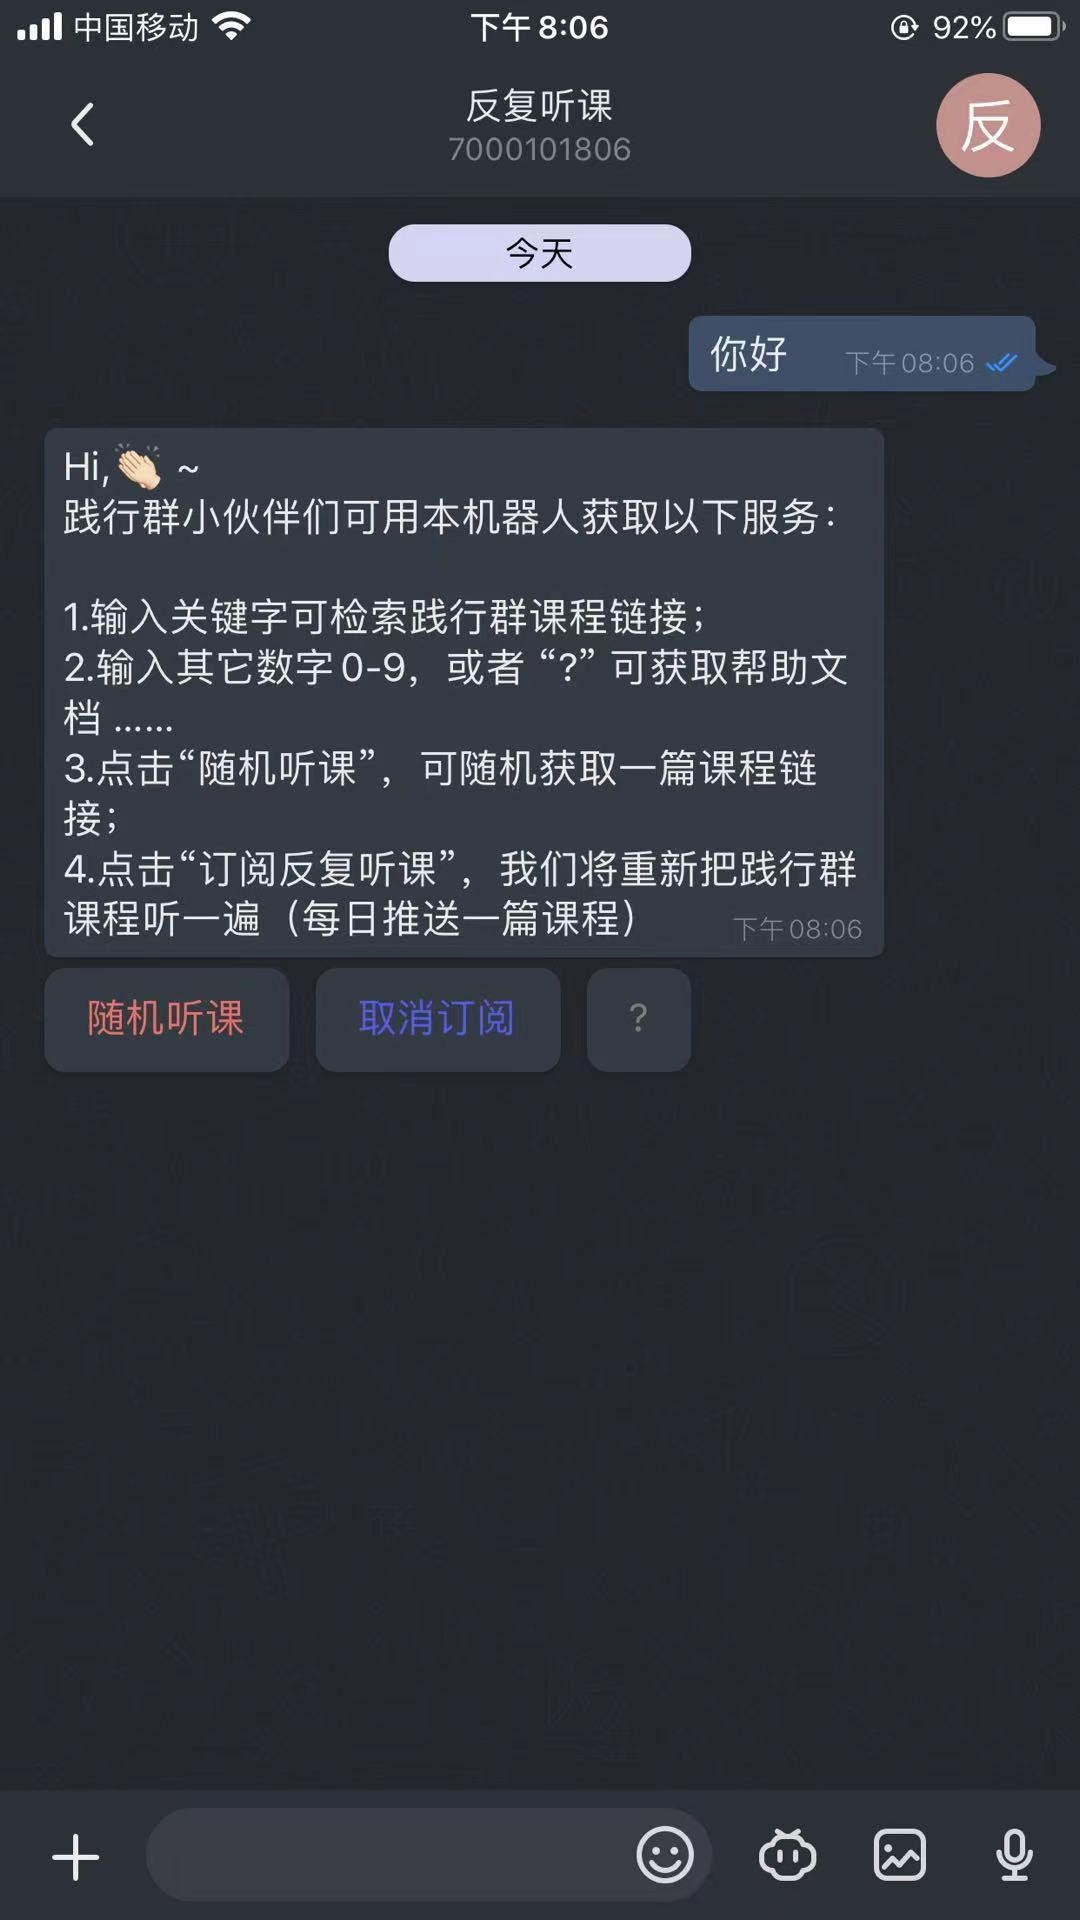
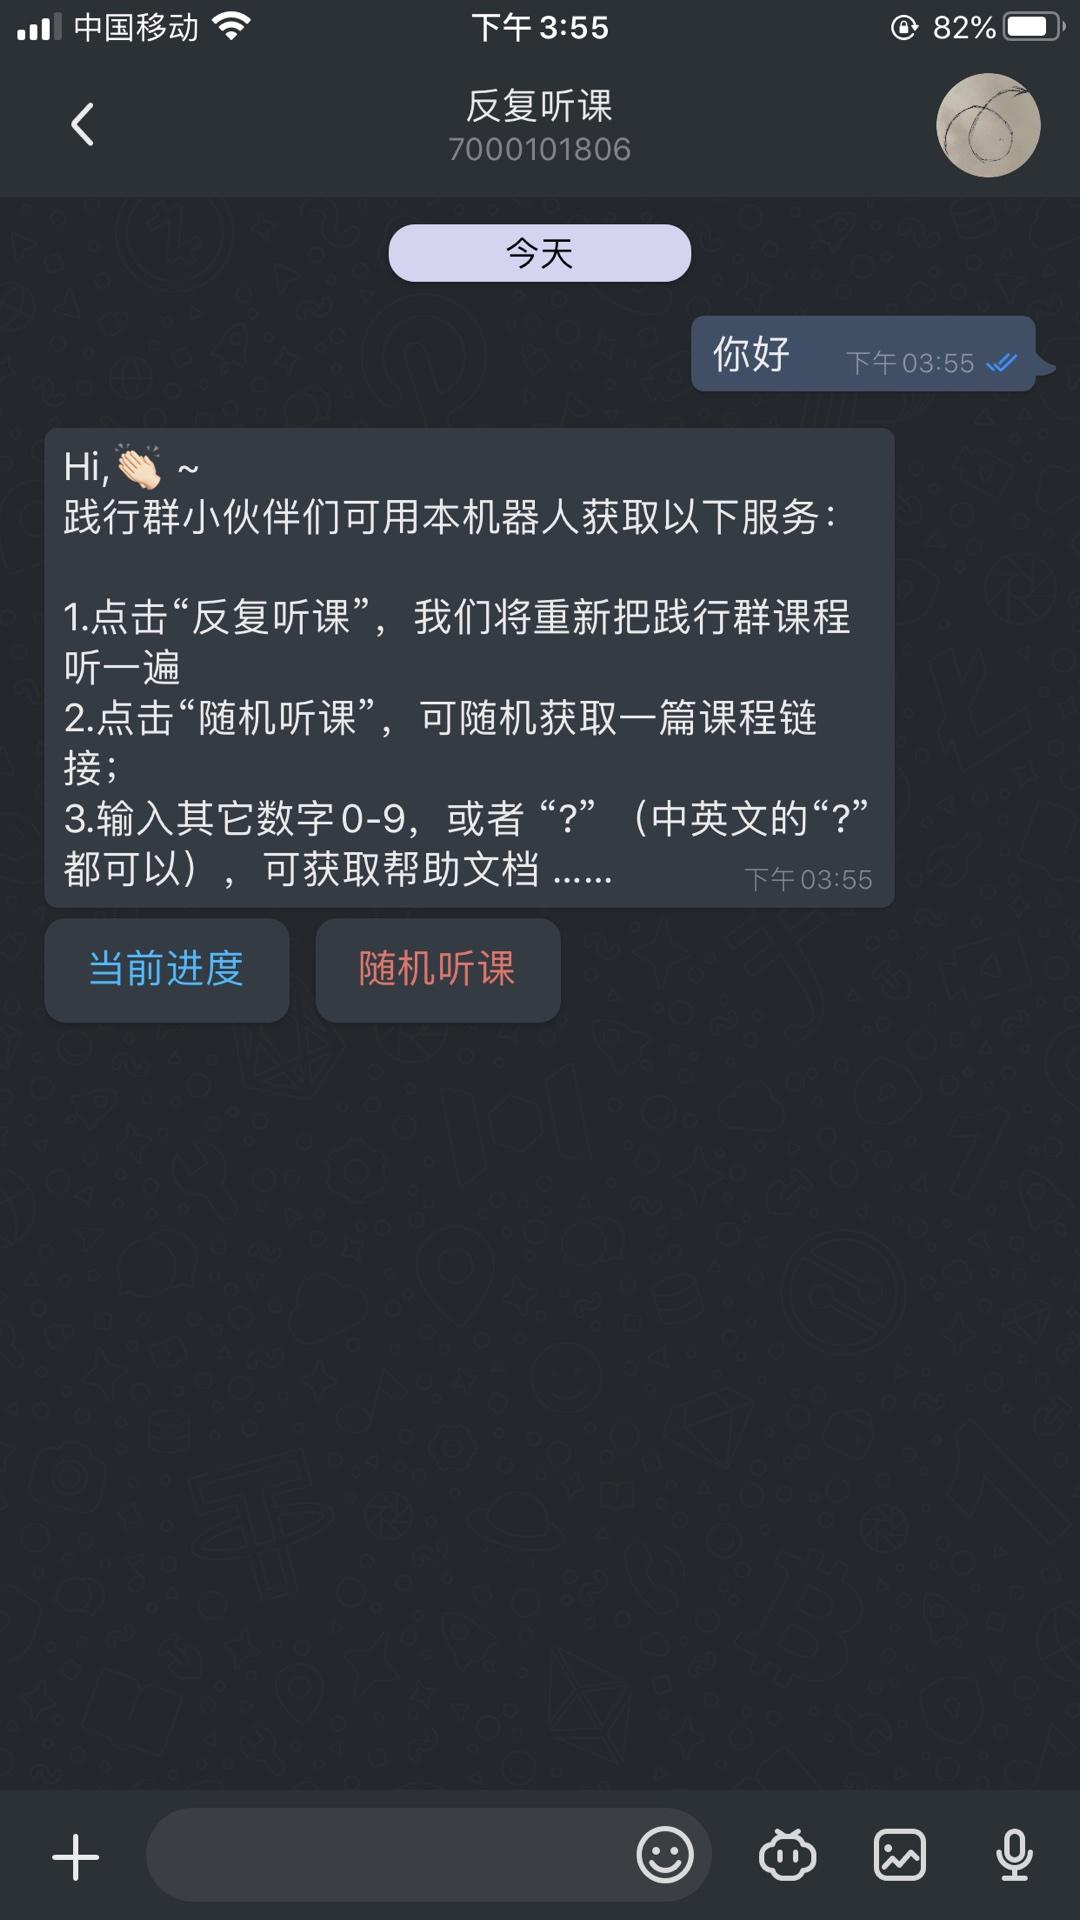
fix: update

diff --git a/intro/reading.md b/intro/reading.md
@@ -6,7 +6,7 @@
 
 （注意: 只有践行群同学可用，因为本质上就是换个姿势打开践行群频道 …… ）
 
- - 1.点击“订阅反复听课”，我们将重新把践行群课程听一遍（每日推送课程）  
+ - 1.点击“反复听课”，我们将重新把践行群课程听一遍  
 
  - 2.点击“随机听课”，可随机获取一篇课程链接；
 
@@ -29,10 +29,14 @@
 
 ### 机器人小笔记  
 
-2021-12-19 破蛋之日  
+`2021-12-19` 破蛋之日 (〃'▽'〃)  
 
-2022-02-26 今天开发者特别有兴致，说要帮我升级一个版本，起初我内心充满惊喜。  
+`2022-02-26` 今天开发者特别有兴致，说要帮我升级一个版本，起初我内心充满惊喜。  
 
 过程中，开发者嘴里嘟囔着，“赶紧把这块粗糙的代码删了，被人看到的话，太丢人了” …… 那啥，MIXIN 网络大大，我想申请重新投胎，换个开发者怎么样。  
 
-2022-04-23 开发者花了一分钟徒手绘了一枚丑丑的头像 …… 还说，目前火爆的 NTF 大家也就长这个样 …… 此刻，我不知道我该笑还是该哭 T_T ……  
+`2022-04-23` 开发者花了一分钟徒手绘了一枚丑丑的头像 …… 还说，目前火爆的 NTF 大家也就长这个样 …… 
+
+此刻，我不知道我是该笑呢，还是该哭 T_T ……  
+
+`2022-05-02` 系统再一次迎来了大改版 ~ 开发者大大表示可以拿给别人用了 …… 咳咳，这话咋感觉在半年前就听某人说过呢 ……  
